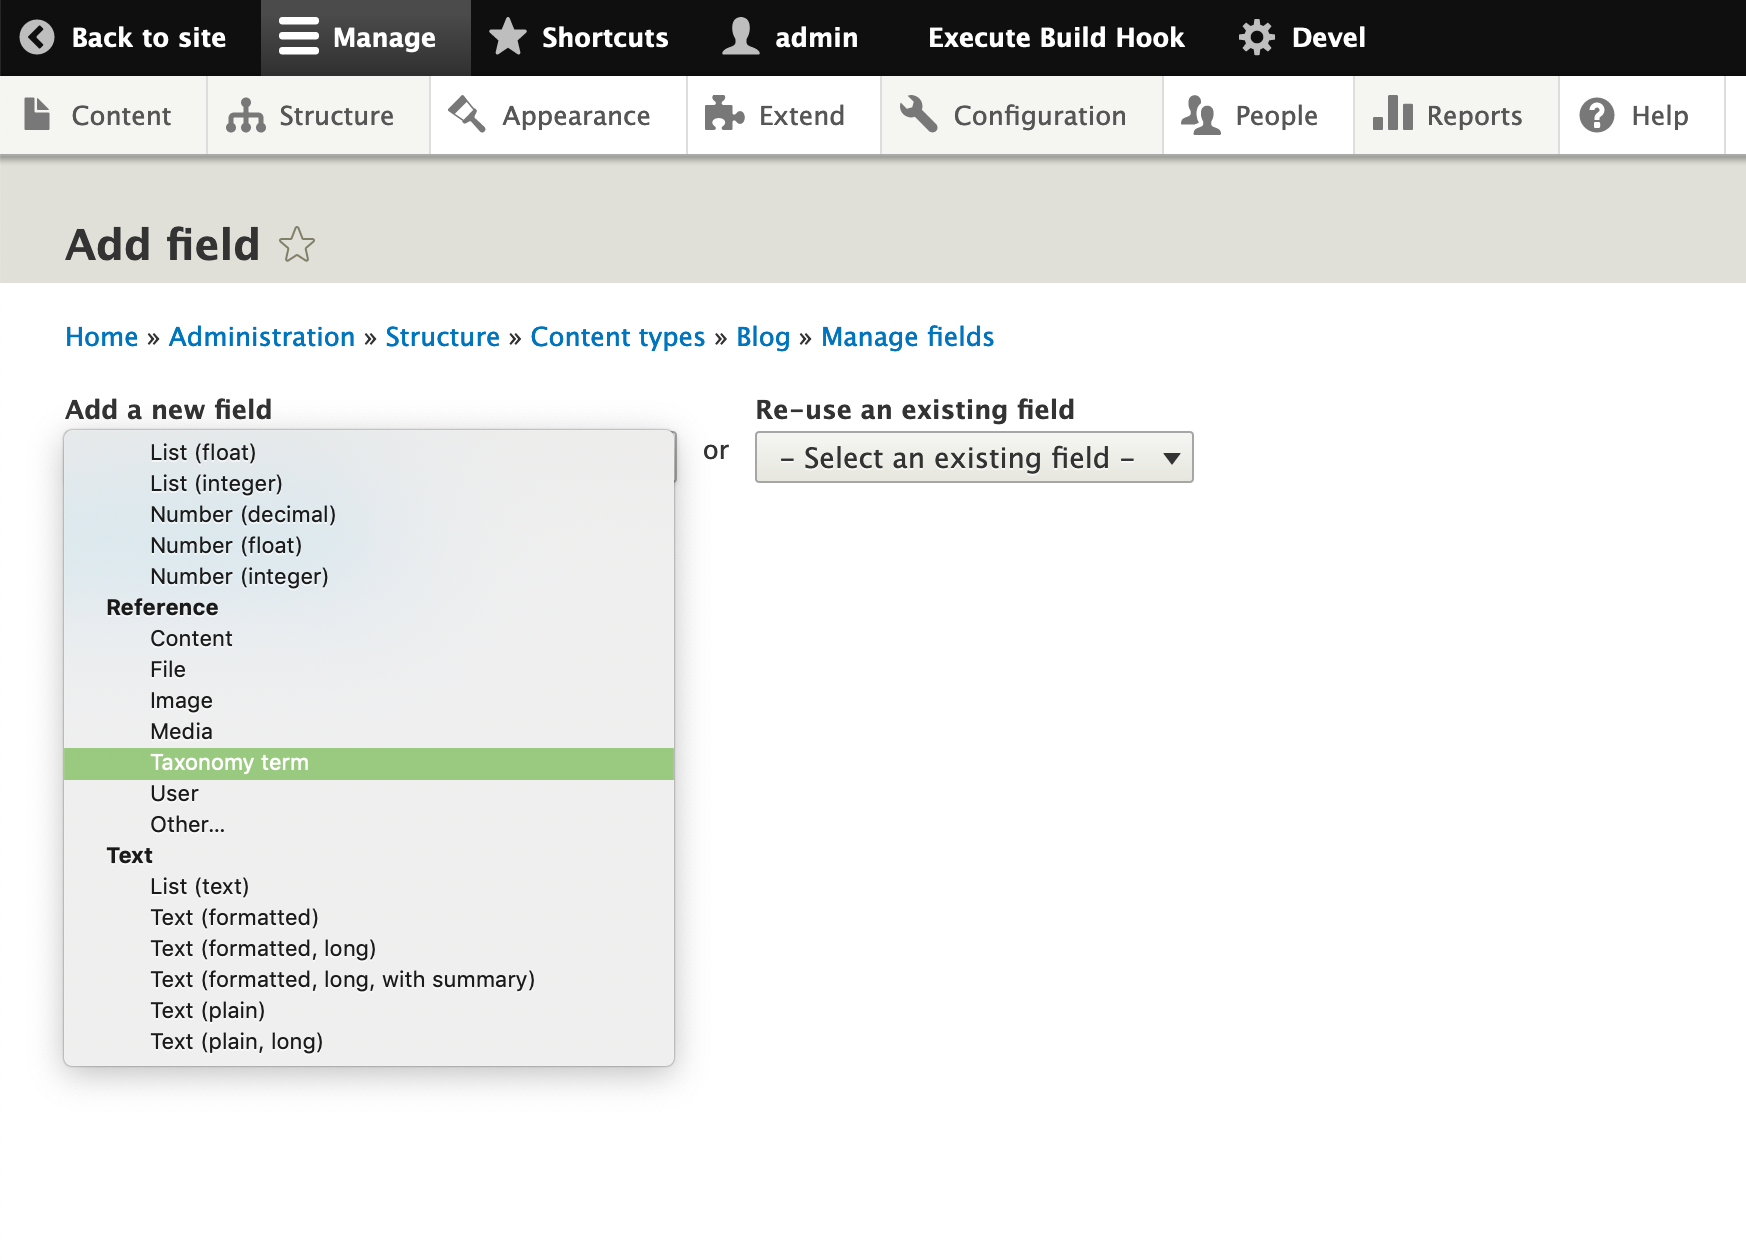
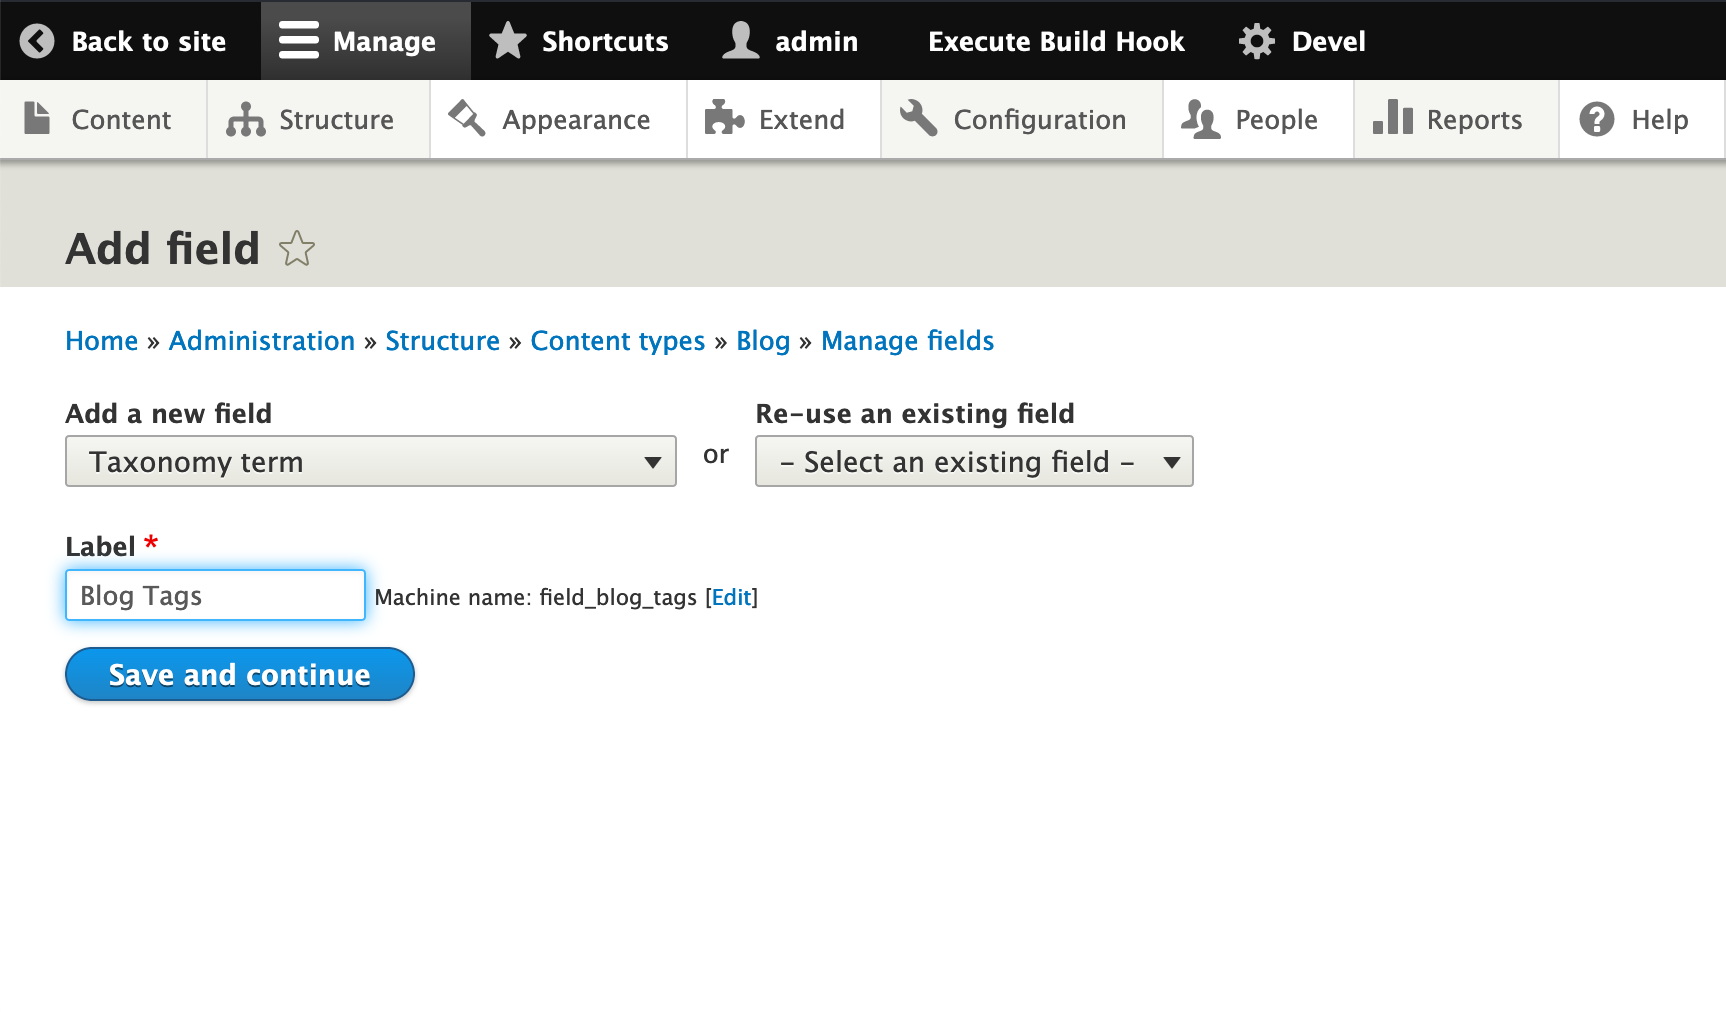
Update slides about creating fields

Changed region(s): [[0.0, 0.0, 1.0, 0.8577], [0.0307, 0.7352, 0.0614, 0.7658]]

diff --git a/src/slides/01-presentation.md b/src/slides/01-presentation.md
@@ -147,10 +147,7 @@ ___
 # Configure `Blog` entity in Drupal
 
 ---
-# Menu 'Structure': select 'Content types'
-![select menu 'Structure' -> 'Content types'](./structure--content-types.png)
 
----
 # Add new content type
 ![Add new content type](./add-new-content-type.png)
 
@@ -172,18 +169,6 @@ ___
 ![Add field Blog image](./add-field-blog-image-1.png)
 
 ---
-# Add field Blog Image
-![Add field Blog image](./add-field-blog-image-2.png)
-
----
-# Add field Blog Image
-![Add field Blog image](./add-field-blog-image-3.png)
-
----
-# Add field Blog Image
-![Add field Blog image](./add-field-blog-image-4.png)
-
----
 # Add field Blog Tags
 ![Add field Blog tags](./add-field-blog-tags-0.png)
 
@@ -198,14 +183,6 @@ ___
 ---
 # Add field Blog Tags
 ![Add field Blog tags](./add-field-blog-tags-3.png)
-
----
-# Add field Blog Tags
-![Add field Blog tags](./add-field-blog-tags-4.png)
-
----
-# Add field Blog Tags
-![Add field Blog tags](./add-field-blog-tags-5.png)
 
 ---
 # Add field Blog Tags
